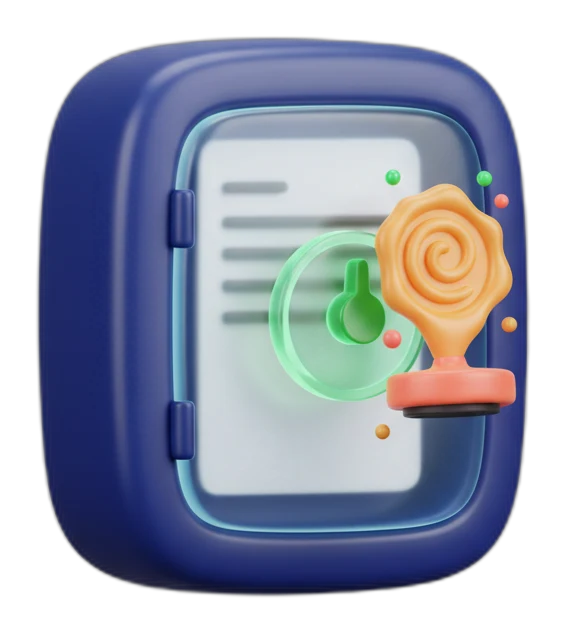
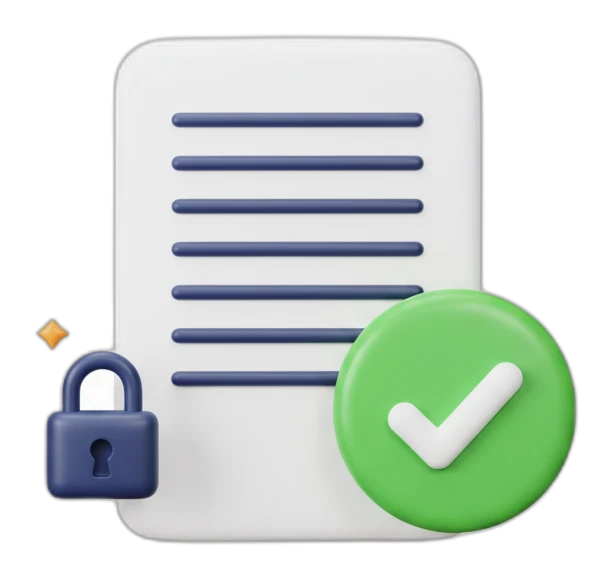
style(landing): typography pass — green promise phrase per heading (Razorpay pattern), tighter display tracking, darker body, tabular stat numerals; replace seal illustration with document+badge+lock render

diff --git a/src/styles/grass.css b/src/styles/grass.css
@@ -26,6 +26,7 @@
 @media (max-width: 720px) { .g-section { padding: 72px 0; } }
 
 /* ---------- type (one family, weight does the work) ---------- */
+.g-hl { color: var(--g-green); }
 .g-h1, .g-h2, .g-h3 {
   font-family: var(--g-font);
   font-weight: 800;
@@ -33,20 +34,21 @@
   line-height: 1.04;
   color: var(--g-ink);
 }
-.g-h1 { font-size: clamp(42px, 6vw, 84px); }
-.g-h2 { font-size: clamp(30px, 3.8vw, 52px); margin-bottom: 16px; }
+.g-h1 { font-size: clamp(42px, 6vw, 84px); letter-spacing: -0.035em; line-height: 1.03; }
+.g-h2 { font-size: clamp(30px, 3.8vw, 50px); margin-bottom: 18px; line-height: 1.08; max-width: 21ch; }
 .g-h3 { font-size: 20px; letter-spacing: -0.015em; }
 .g-sub {
   font-family: var(--g-font);
   font-size: clamp(16.5px, 1.4vw, 19px);
-  color: var(--g-ink-soft);
+  color: #494C55;
   max-width: 620px;
   font-weight: 400;
-  line-height: 1.65;
+  line-height: 1.7;
 }
 .g-sub b, .g-sub strong { color: var(--g-ink); font-weight: 600; }
 .g-center { text-align: center; }
 .g-center .g-sub { margin-left: auto; margin-right: auto; }
+.g-center .g-h2 { margin-left: auto; margin-right: auto; }
 .g-small { font-family: var(--g-font); font-size: 13px; color: var(--g-ink-faint); line-height: 1.6; }
 
 /* ---------- buttons ---------- */
@@ -157,7 +159,7 @@ html.js .g-rv.g-d4 { transition-delay: .24s; }
 .g-stats { display: grid; grid-template-columns: repeat(4, 1fr); gap: 0; margin-top: 56px; border-top: 1px solid var(--g-line); }
 .g-stat { padding: 28px 26px 6px 0; border-right: 1px solid var(--g-line-soft); margin-right: 26px; }
 .g-stat:last-child { border-right: none; margin-right: 0; }
-.g-stat .g-num { font-family: var(--g-font); font-weight: 800; font-size: clamp(32px, 3vw, 44px); letter-spacing: -0.03em; line-height: 1; color: var(--g-ink); }
+.g-stat .g-num { font-family: var(--g-font); font-weight: 800; font-size: clamp(32px, 3vw, 44px); letter-spacing: -0.03em; line-height: 1; color: var(--g-ink); font-variant-numeric: tabular-nums; }
 .g-stat .g-lbl { font-family: var(--g-font); font-size: 13.5px; color: var(--g-ink-soft); margin-top: 10px; line-height: 1.55; }
 .g-giant { margin: 84px auto 0; text-align: center; }
 .g-giant .g-n { font-family: var(--g-font); font-weight: 800; font-size: clamp(96px, 15vw, 210px); letter-spacing: -0.05em; line-height: .9; color: var(--g-ink); }
@@ -173,6 +175,8 @@ html.js .g-rv.g-d4 { transition-delay: .24s; }
 
 /* ---------- split (text + illustration) ---------- */
 .g-split { display: grid; grid-template-columns: 1.05fr .95fr; gap: 64px; align-items: center; }
+.g-split .g-h2 { max-width: none; }
+.g-hl { white-space: pre-line; }
 .g-split-art { display: flex; align-items: center; justify-content: center; }
 .g-split-art img { width: 88%; max-width: 460px; height: auto; }
 .g-check { display: flex; gap: 13px; align-items: flex-start; margin-top: 22px; font-family: var(--g-font); }

diff --git a/src/components/grass/CommercialGrass.tsx b/src/components/grass/CommercialGrass.tsx
@@ -10,7 +10,7 @@ export const HospitalsBand: React.FC = () => (
       <div className="g-split">
         <div>
           <Rv as="h2" className="g-h2">
-            Your HMIS runs the hospital. Salvia defends it.
+            Your HMIS runs the hospital. <span className="g-hl">Salvia defends it.</span>
           </Rv>
           <Rv as="p" className="g-sub" delay={1}>
             Not another system to migrate to. Salvia sits on top of what you have and captures
@@ -53,7 +53,7 @@ export const PricingTeaserGrass: React.FC = () => (
   <section className="g-section g-center" id="pricing-teaser">
     <div className="g-container">
       <Rv as="h2" className="g-h2">
-        Priced per note. Not per doctor.
+        Priced per note. <span className="g-hl">Not per doctor.</span>
       </Rv>
       <Rv as="p" className="g-sub" delay={1}>
         The AI is on every plan. Unlimited staff, always — you pay only for the notes you

diff --git a/src/components/grass/HowRegisters.tsx b/src/components/grass/HowRegisters.tsx
@@ -9,7 +9,7 @@ export const HowItWorksGrass: React.FC = () => (
   <section className="g-section g-center" id="how-it-works">
     <div className="g-container">
       <Rv as="h2" className="g-h2">
-        You talk. It becomes the record.
+        You talk. It becomes <span className="g-hl">the record.</span>
       </Rv>
       <Rv as="p" className="g-sub" delay={1}>
         No new habits, no typing after hours. Salvia fits the way Indian clinics and wards
@@ -58,7 +58,7 @@ export const RegistersGrid: React.FC = () => (
   <section className="g-section" id="products">
     <div className="g-container">
       <Rv as="h2" className="g-h2">
-        The paperwork that can sink you. Handled.
+        The paperwork that can sink you. <span className="g-hl">Handled.</span>
       </Rv>
       <Rv as="p" className="g-sub" delay={1}>
         Every register your clinic answers for, filled from the consult itself.

diff --git a/src/components/grass/EvidenceGrass.tsx b/src/components/grass/EvidenceGrass.tsx
@@ -80,7 +80,7 @@ export const ProveIt: React.FC = () => (
       <div className="g-split">
         <div>
           <Rv as="h2" className="g-h2">
-            Built for the day someone asks: "prove it."
+            Built for the day someone asks: <span className="g-hl">"prove it."</span>
           </Rv>
           <Rv as="p" className="g-sub" delay={1}>
             A regulator, an insurer, a consumer court, an NABH assessor. A Salvia record

diff --git a/src/components/grass/HeroGrass.tsx b/src/components/grass/HeroGrass.tsx
@@ -9,7 +9,7 @@ export const HeroGrass: React.FC = () => (
       <h1 className="g-h1">
         Every consult,
         <br />
-        on the record.
+        <span className="g-hl">on the record.</span>
       </h1>
       <p className="g-sub">
         Salvia listens — <b>ambient in the OPD</b> or a short <b>voice note</b> after the
